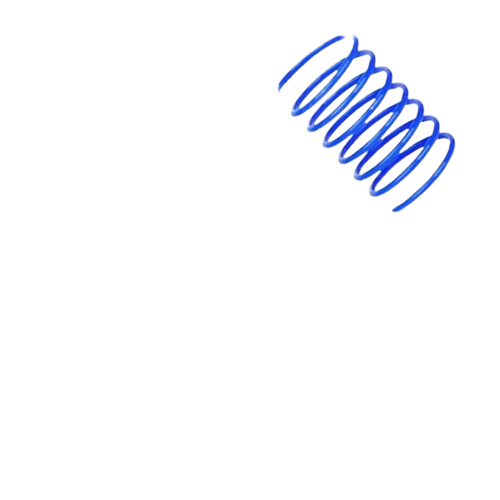
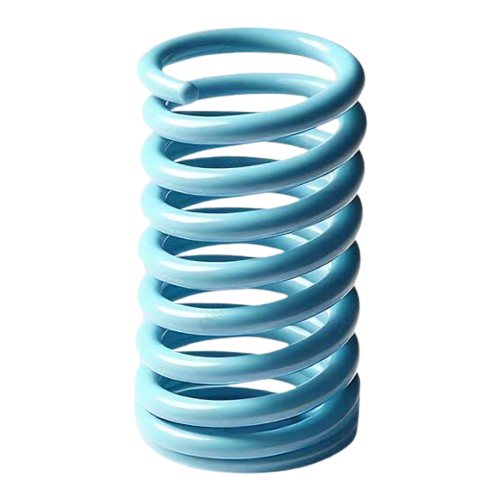
a
a

diff --git a/SaltarNubes.py b/SaltarNubes.py
@@ -127,7 +127,7 @@ for nombre in ["reloj", "resorte", "moneda", "paraguas", "iman"]:
     ).convert_alpha()
 
     imagenes_objetos[nombre] = pygame.transform.scale(
-        imagen, (32, 32)
+        imagen, (35, 35)
     )
 
 ANCHO_PAU = 55
